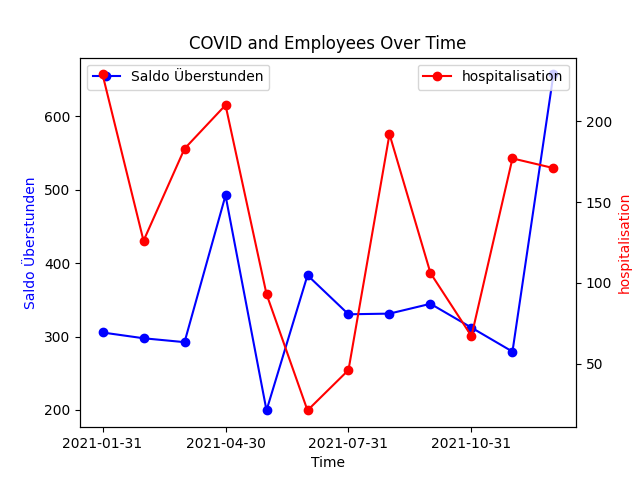
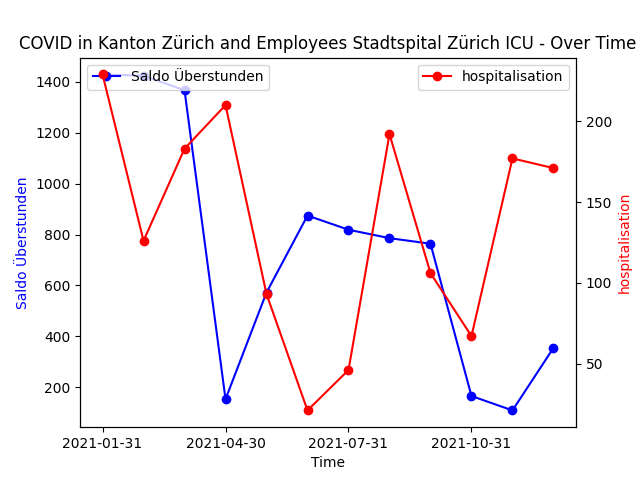
div

diff --git a/svelte_sp_interface/src/pages/ComparisonPage.svelte b/svelte_sp_interface/src/pages/ComparisonPage.svelte
@@ -15,6 +15,10 @@
         selectedOption.option2 = event.target.value;
         console.log(selectedOption);
     }
+    function updateSelectedOption3(event) {
+        selectedOption.option3 = event.target.value;
+        console.log(selectedOption);
+    }
 
     function handleCommit() {
         let x = 0;
@@ -71,6 +75,12 @@
     <option value="hospitalisation">hospitalisation</option>
     <option value="ICU">ICU_Cases</option>
     <option value="deaths">Deaths</option>
+</select>
+
+<select id="Team" on:change={updateSelectedOption3}>
+    <option value="ICU">ICU-Team</option>
+    <option value="NF">Emergency-Team</option>
+    <option value="OPS">Operation-Team</option>
 </select>
 
 <button on:click={handleCommit} disabled={selectedOption.option1 == 0|| selectedOption.option2 == 0}>

diff --git a/python_sp_calc/calc.py b/python_sp_calc/calc.py
@@ -11,7 +11,7 @@ def graph(employee, covid):
    
        # Read data from tables using pandas
     rows1 = pd.read_sql_query("SELECT * FROM Covid_Data", conn)
-    rows2 = pd.read_sql_query("SELECT * FROM SP_Project_Sums", conn)
+    rows2 = pd.read_sql_query("SELECT * FROM [SP_Project_Sums_DST IPS]", conn)
 
      # Close the database connection
     conn.close()
@@ -26,6 +26,7 @@ def graph(employee, covid):
 
     # Create a line graph using Matplotlib with dual y-axes
     fig, ax1 = plt.subplots()
+    
 
     ax1.plot(dates, employee_list, 'bo-', label=employee_label)
     ax1.set_xlabel('Time')
@@ -36,7 +37,7 @@ def graph(employee, covid):
     ax2.set_ylabel(covid_label, color='r')
 
     # Set title and legends
-    plt.title('COVID and Employees Over Time')
+    plt.title('COVID in Kanton Zürich and Employees Stadtspital Zürich ICU - Over Time')
     ax1.legend(loc='upper left')
     ax2.legend(loc='upper right')
 
@@ -44,7 +45,7 @@ def graph(employee, covid):
     plt.xticks(range(0, len(dates), 3)) 
     imgPath = os.path.join(current_dir, f'../svelte_sp_interface/public/img/plot{employee}{covid}.png')
     plt.savefig(imgPath)
-
+    plt.close()
 #create all graph versions
 graph(1,1)
 graph(2,1)
